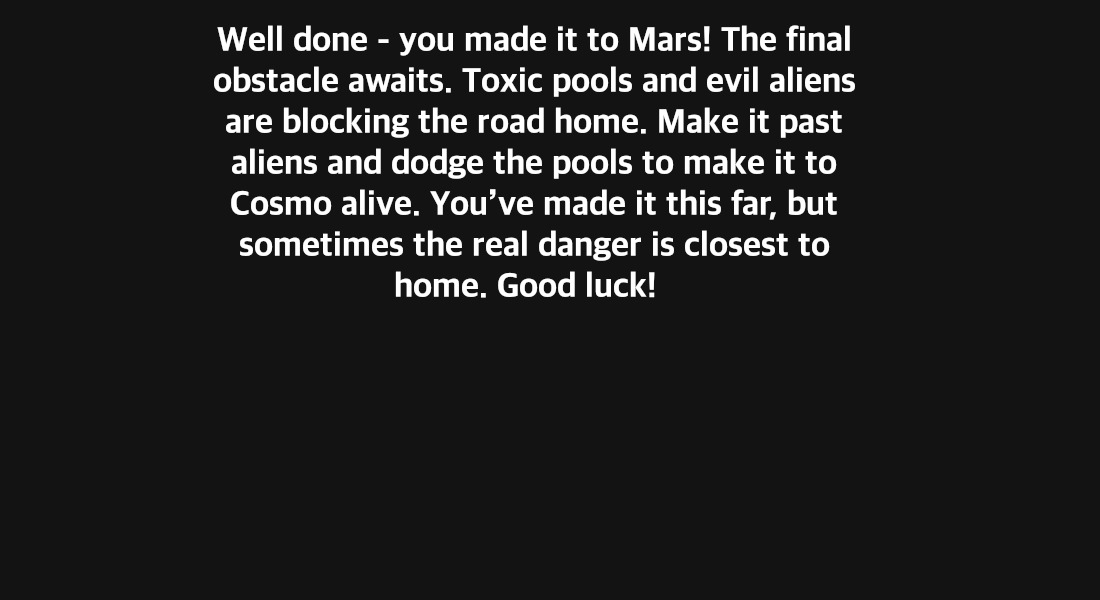
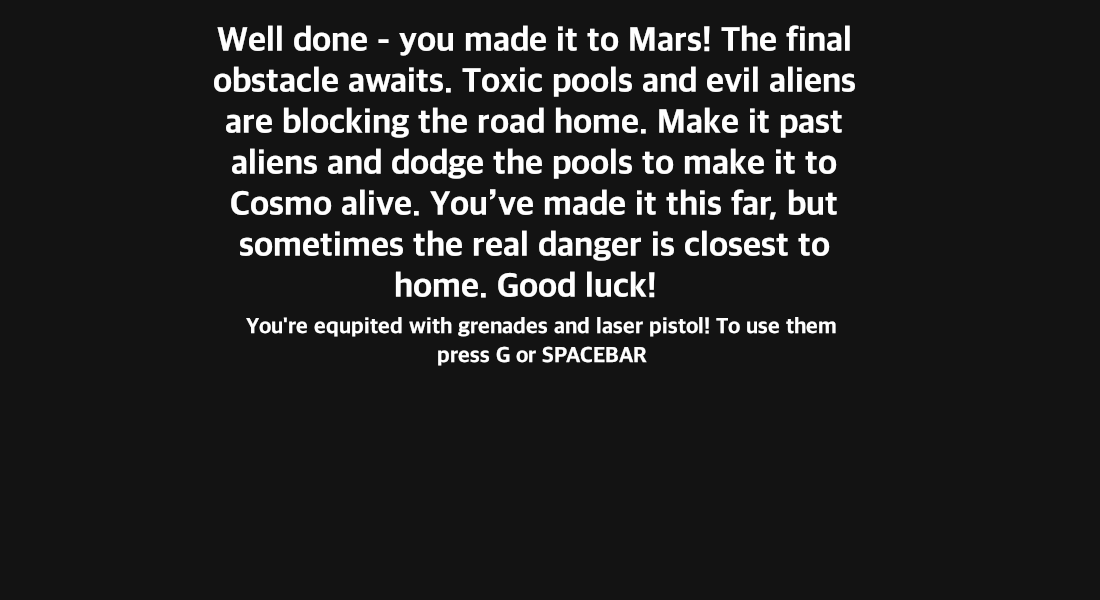
Updated level5
changed controls and storyboard

Changed region(s): [[0.2164, 0.51, 0.7727, 0.63]]

diff --git a/LEVEL_5/MartianMission.py b/LEVEL_5/MartianMission.py
@@ -32,8 +32,8 @@ def main():
     screen_scroll = 0
     bg_scroll = 0
     level = 0
-    start_game = False
-    start_intro = False
+    start_game = True
+    start_intro = True
 
     #player action variables
     movl = False
@@ -812,11 +812,11 @@ def main():
                     movl = True
                 if event.key == pygame.K_RIGHT:
                     movr = True
-                if event.key == pygame.K_c:
+                if event.key == pygame.K_SPACE:
                     shoot = True
-                if event.key == pygame.K_z:
+                if event.key == pygame.K_g:
                     laser = True
-                if event.key == pygame.K_SPACE and player.alive:
+                if event.key == pygame.K_UP and player.alive:
                     player.jump = True
                     #stop sound from playing when player is in air
                     if player.in_air == False:
@@ -831,12 +831,12 @@ def main():
                     movl = False
                 if event.key == pygame.K_RIGHT:
                     movr = False
-                if event.key == pygame.K_c:
+                if event.key == pygame.K_SPACE:
                     shoot = False
-                if event.key == pygame.K_z:
+                if event.key == pygame.K_g:
                     laser = False
                     laser_thrown = False
-                if event.key == pygame.K_SPACE:
+                if event.key == pygame.K_UP:
                     player.jump = False
 
         pygame.display.update()

diff --git a/LEVEL_5/main.py b/LEVEL_5/main.py
@@ -47,7 +47,7 @@ class Player ():
 
         # get keypresses
         key = pygame.key.get_pressed ()
-        if key[pygame.K_SPACE] and self.jumped == False:
+        if key[pygame.K_UP] and self.jumped == False:
             self.vel_y = -15
             self.jumped = True
         if self.vel_y < 300:
